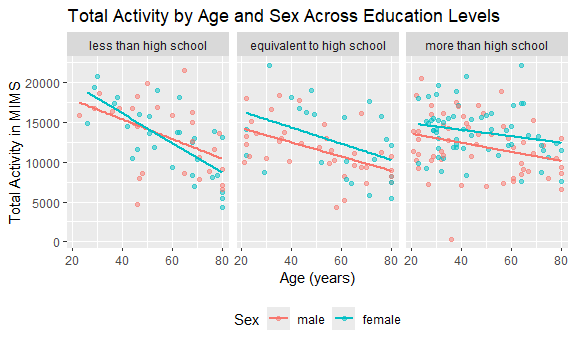
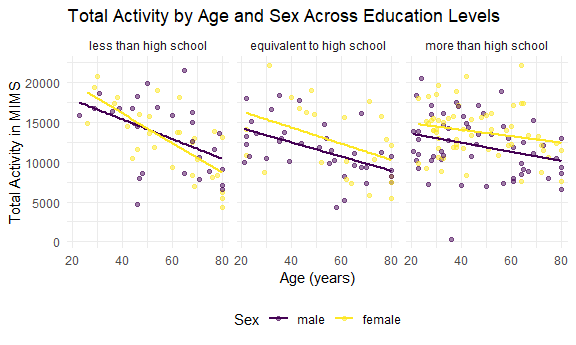
Problem 2 & 3 all

diff --git a/P8105_hw3_cmh2275.md b/P8105_hw3_cmh2275.md
@@ -55,19 +55,25 @@ fullnhanes_df = left_join(nhanes1_df, nhanes2_df)
 
 ``` r
 fullnhanes_df |>
-  count(sex,education)|>
+    count(education, sex)|>
   pivot_wider (names_from = sex, 
                values_from = n, 
                values_fill = 0
-  )
+  )|>
+  knitr::kable(
+    col.names = c("Education", "Male", "Female"),
+    caption = "Males and Females by Education Level")
 ```
 
-    ## # A tibble: 3 × 3
-    ##   education                  male female
-    ##   <fct>                     <int>  <int>
-    ## 1 less than high school        28     29
-    ## 2 equivalent to high school    36     23
-    ## 3 more than high school        56     59
+| Education                 | Male | Female |
+|:--------------------------|-----:|-------:|
+| less than high school     |   28 |     29 |
+| equivalent to high school |   36 |     23 |
+| more than high school     |   56 |     59 |
+
+Males and Females by Education Level
+
+\## Visualization
 
 ``` r
 fullnhanes_df |>
@@ -78,15 +84,12 @@ facet_wrap (~education)+
     title = "Age Distribution for Males and Females Across Education Levels", 
     x = "Age (years)", 
     y = "Count", 
-    color = "Sex"
-  )+
-theme (legend.position = "bottom")
+    fill = "Sex"
+  )
 ```
 
-    ## Ignoring unknown labels:
-    ## • colour : "Sex"
-
 <img src="P8105_hw3_cmh2275_files/figure-gfm/unnamed-chunk-5-1.png" alt="" width="90%" />
+
 The “more than high school” education level has a larger count of
 participants than the other two levels. While “more than high school”
 and “less than high school” had relatively the same number of males and
@@ -116,8 +119,7 @@ fullnhanes_df |>
     x = "Age (years)", 
     y = "Total Activity in MIMS", 
     color = "Sex"
-  )+
-  theme(legend.position = "bottom")
+  )
 ```
 
     ## `geom_smooth()` using formula = 'y ~ x'
@@ -155,8 +157,7 @@ fullnhanes_df |>
     x = "Time of Day",
     y = "Activity", 
     color = "Sex"
-  )+
-  theme(legend.position = "bottom")
+  )
 ```
 
     ## `geom_smooth()` using method = 'gam' and formula = 'y ~ s(x, bs = "cs")'
@@ -264,7 +265,8 @@ july24_df = read_csv(file = "./July 2024 Citi.csv")|>
 ``` r
 citifull_df = bind_rows(jan20_df, jan24_df, july20_df, july24_df)|>
   mutate(month = as.factor(month), 
-          year = as.factor(year))
+          year = as.factor(year), 
+         weekdays = factor(weekdays, levels = c("Monday", "Tuesday", "Wednesday", "Thursday", "Friday", "Saturday", "Sunday")))
 ```
 
 ## Table 1
@@ -272,16 +274,19 @@ citifull_df = bind_rows(jan20_df, jan24_df, july20_df, july24_df)|>
 ``` r
 citifull_df|>
 count(month, year, member_casual)|>
-  pivot_wider(names_from = member_casual, values_from = n, values_fill = 0)
+  pivot_wider(names_from = member_casual, values_from = n, values_fill = 0)|>
+  knitr::kable (col.names = c("Month", "Year", "Casual", "Member"), 
+                caption = "Number of Casual vs Member Riders in January and July 2020 and 2024")
 ```
 
-    ## # A tibble: 4 × 4
-    ##   month year  casual member
-    ##   <fct> <fct>  <int>  <int>
-    ## 1 jan   2020     984  11436
-    ## 2 jan   2024    2108  16753
-    ## 3 july  2020    5637  15411
-    ## 4 july  2024   10894  36262
+| Month | Year | Casual | Member |
+|:------|:-----|-------:|-------:|
+| jan   | 2020 |    984 |  11436 |
+| jan   | 2024 |   2108 |  16753 |
+| july  | 2020 |   5637 |  15411 |
+| july  | 2024 |  10894 |  36262 |
+
+Number of Casual vs Member Riders in January and July 2020 and 2024
 
 Members had more rides across all months and years than casual riders.
 The use of Citi Bike by both members and casual riders has grown since
@@ -307,3 +312,74 @@ citifull_df|>
 | W 31 St & 7 Ave          |             146 |
 
 Five most popular starting stations in July 2024
+
+## Visualizations for Median Duration
+
+``` r
+median_duration_df = citifull_df |>
+  group_by (year, month, weekdays)|>
+  summarize (median_duration = median(duration, na.rm = TRUE), 
+             groups = "drop"
+             )
+```
+
+    ## `summarise()` has regrouped the output.
+    ## ℹ Summaries were computed grouped by year, month, and weekdays.
+    ## ℹ Output is grouped by year and month.
+    ## ℹ Use `summarise(.groups = "drop_last")` to silence this message.
+    ## ℹ Use `summarise(.by = c(year, month, weekdays))` for per-operation grouping
+    ##   (`?dplyr::dplyr_by`) instead.
+
+``` r
+median_duration_df |>
+ggplot(aes(x = weekdays, y = median_duration, color = year, group = year))+
+  geom_point(alpha = 0.5)+
+  geom_line(linewidth = 0.5)+
+  facet_wrap(~month)+
+  labs(
+    tite = "Median Ride Duration by Day, Month, and Year",
+    x = "Day of Week", 
+    y = "Median Ride Duration", 
+    color = "Year"
+  )+
+theme (
+  axis.text.x = element_text(angle = 45, hjust = 1)
+)
+```
+
+    ## Ignoring unknown labels:
+    ## • tite : "Median Ride Duration by Day, Month, and Year"
+
+<img src="P8105_hw3_cmh2275_files/figure-gfm/unnamed-chunk-12-1.png" alt="" width="90%" />
+Median ride durations have decreased overall from 2020 to 2024, with the
+month of July having a much larger decrease from 2020 to 2024. There is
+a general trend that median rides duration increase across the weekdays
+(Mon-Fri) in January, and Mon-Thurs for July, with rides decreasing in
+duration on Fridays. There are also generally longer rides on Saturday
+and Sundays compared to weekdays across both months in 2020 and July
+2024, though January 2024 indicates lower median ride duration on
+Sundays.
+
+## Visualization 2
+
+``` r
+citifull_df |> 
+  filter(year == 2024)|>
+  ggplot (aes(x = rideable_type, y = duration, fill = member_casual))+
+  geom_violin()+
+  facet_wrap (~month)+
+  labs(
+    title = "Ride Duration by Rider Type Across January and July 2024", 
+    x = "Bike Type",
+    y = "Ride Duration (minutes)",
+    fill = "Rider Type"
+  )
+```
+
+<img src="P8105_hw3_cmh2275_files/figure-gfm/unnamed-chunk-13-1.png" alt="" width="90%" />
+
+Generally, more member rides had lower ride durations, particularly
+under 50 minutes. Electric bikes also had a trend for more lower ride
+durations. However, there is a lot of heterogenerity in ride durations
+across both classic and electric bikes for casual riders and member
+riders.
